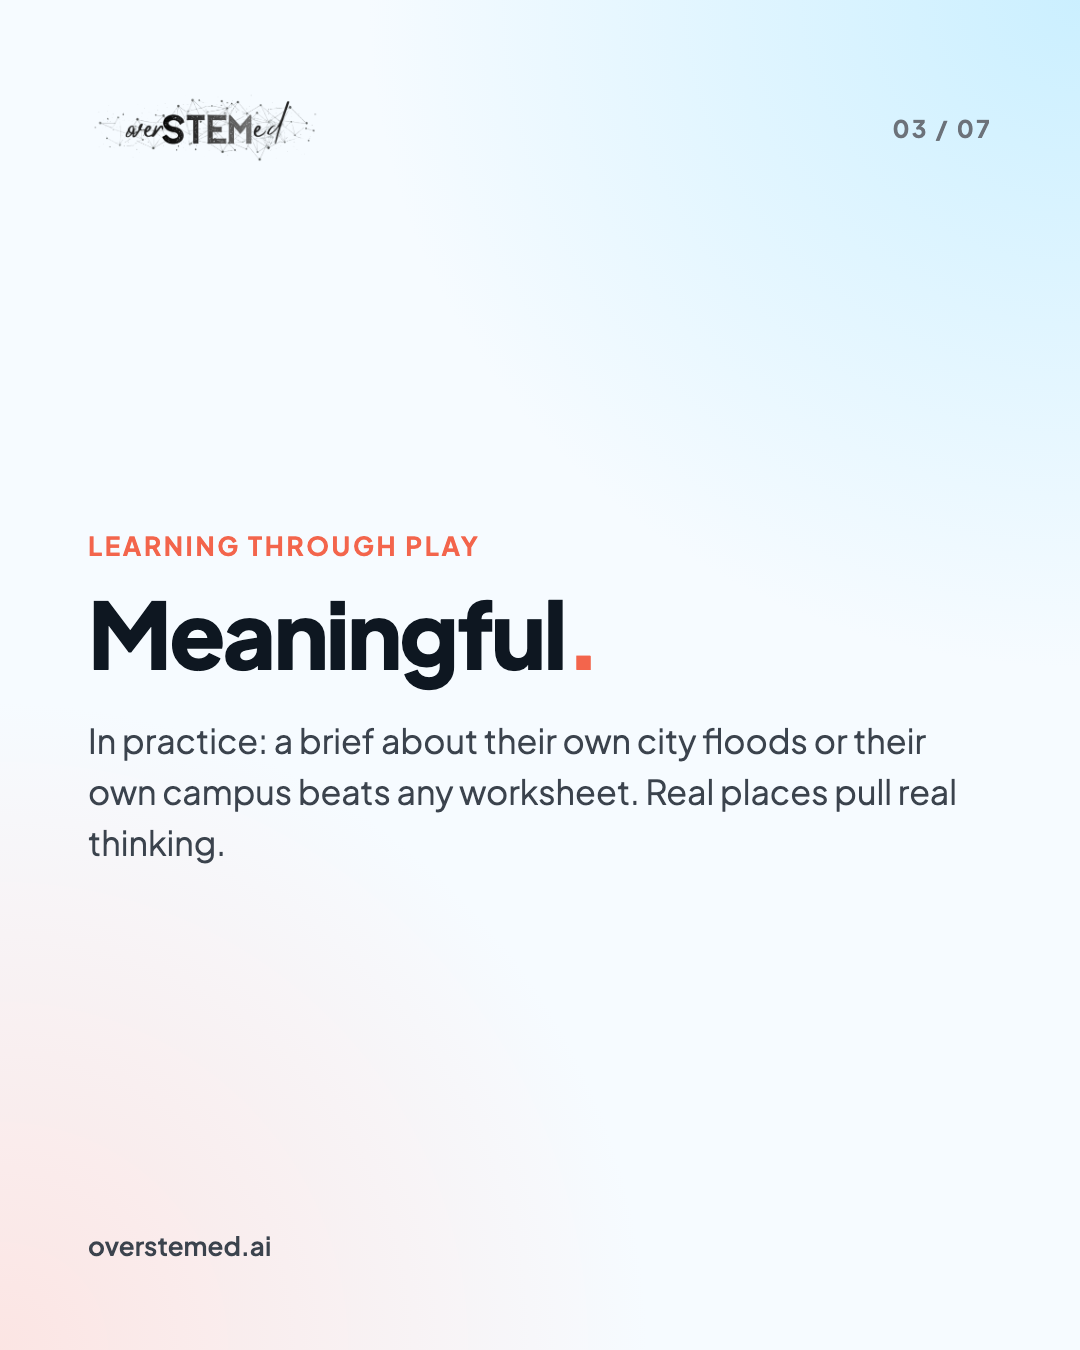
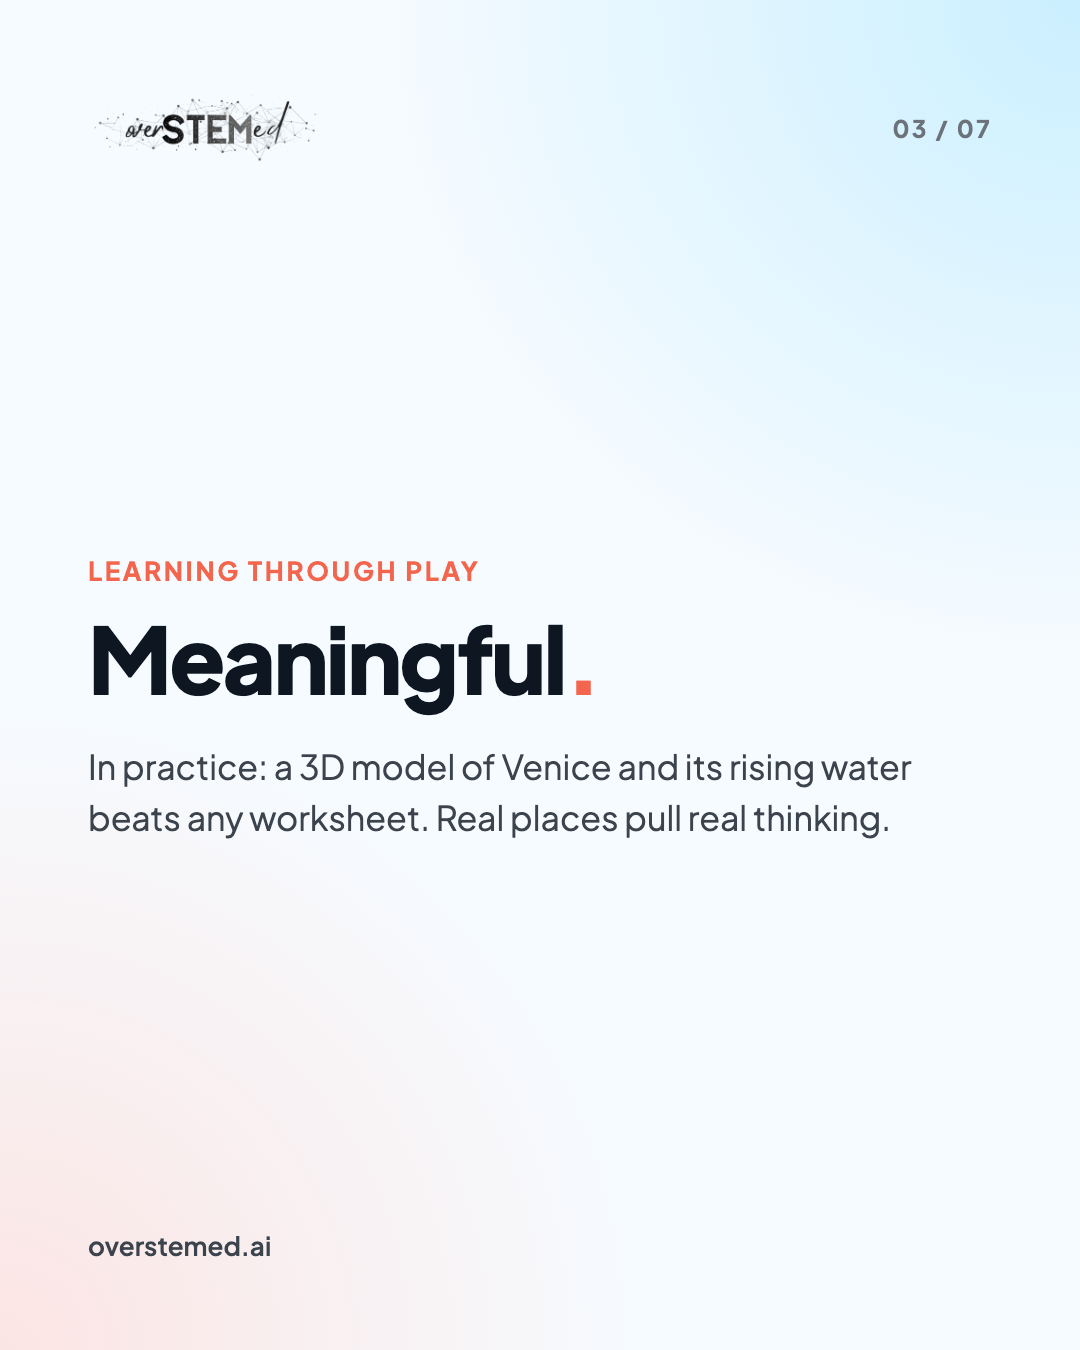
Anchor 'meaningful' slide to the public Venice story
The campus reference pointed at an unpublished post; Venice is
live and self-explanatory.

Changed region(s): [[0.0611, 0.3733, 0.8861, 0.6533]]

diff --git a/post-templates.html b/post-templates.html
@@ -471,7 +471,7 @@ a{color:oklch(0.68 0.18 32);text-decoration:none;} a:hover{color:oklch(0.55 0.16
           <div>
             <div style="font-size:26px;font-weight:700;letter-spacing:0.1em;text-transform:uppercase;color:oklch(0.68 0.18 32);margin-bottom:24px;">Learning through play</div>
             <div style="font-weight:800;font-size:92px;line-height:1.02;letter-spacing:-0.03em;">Meaningful<span style="color:oklch(0.68 0.18 32);">.</span></div>
-            <div style="margin-top:36px;font-size:34px;line-height:1.5;color:oklch(0.38 0.02 255);">In practice: a brief about their own city floods or their own campus beats any worksheet. Real places pull real thinking.</div>
+            <div style="margin-top:36px;font-size:34px;line-height:1.5;color:oklch(0.38 0.02 255);">In practice: a 3D model of Venice and its rising water beats any worksheet. Real places pull real thinking.</div>
           </div>
           <div style="font-size:26px;font-weight:600;color:oklch(0.38 0.02 255);">overstemed.ai</div>
         </div>
